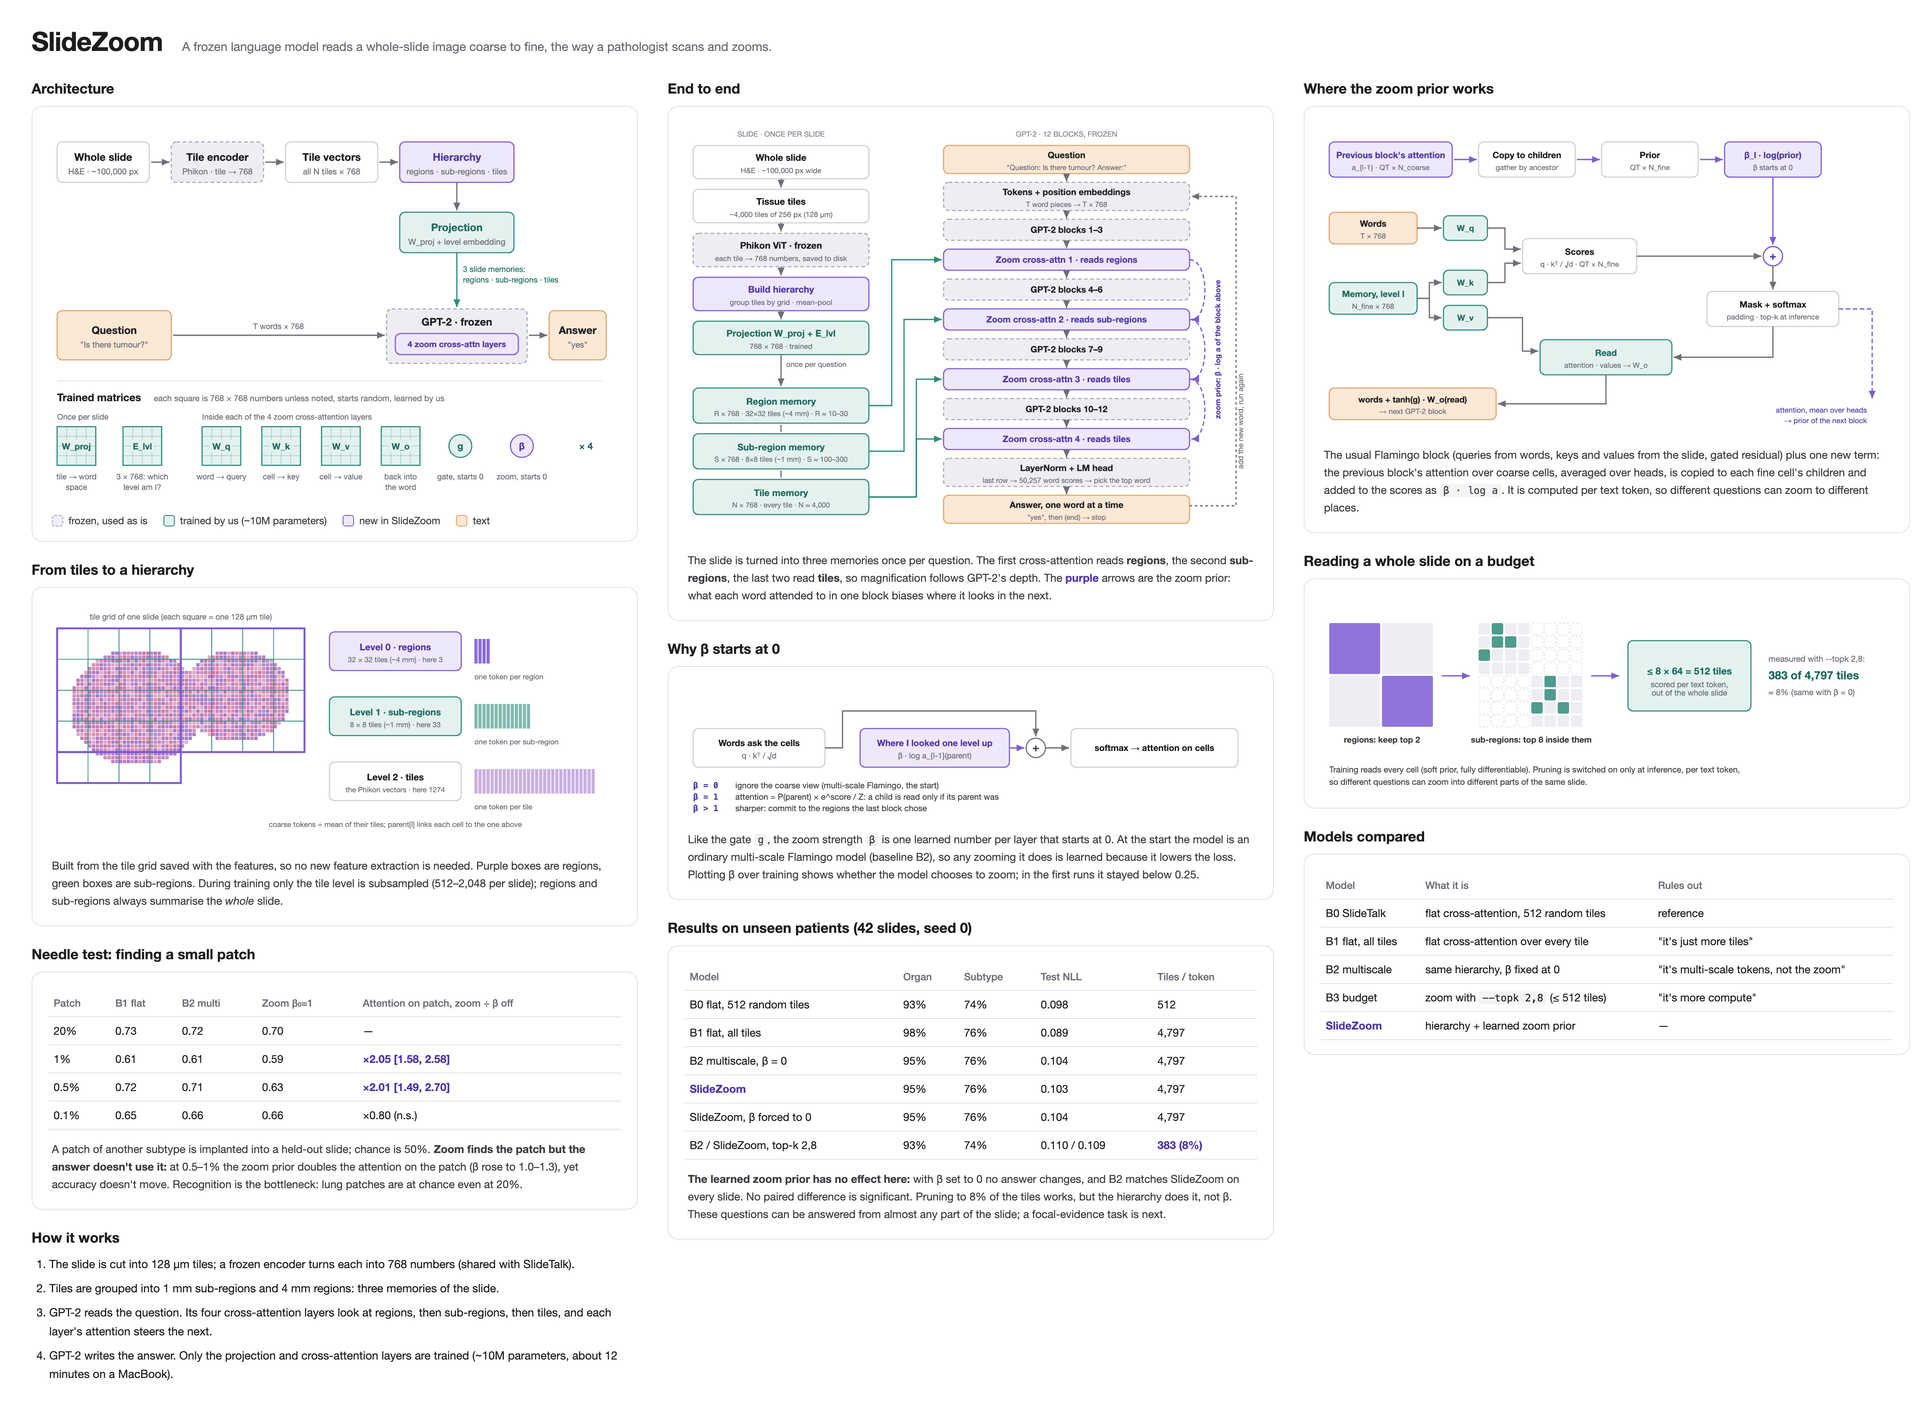
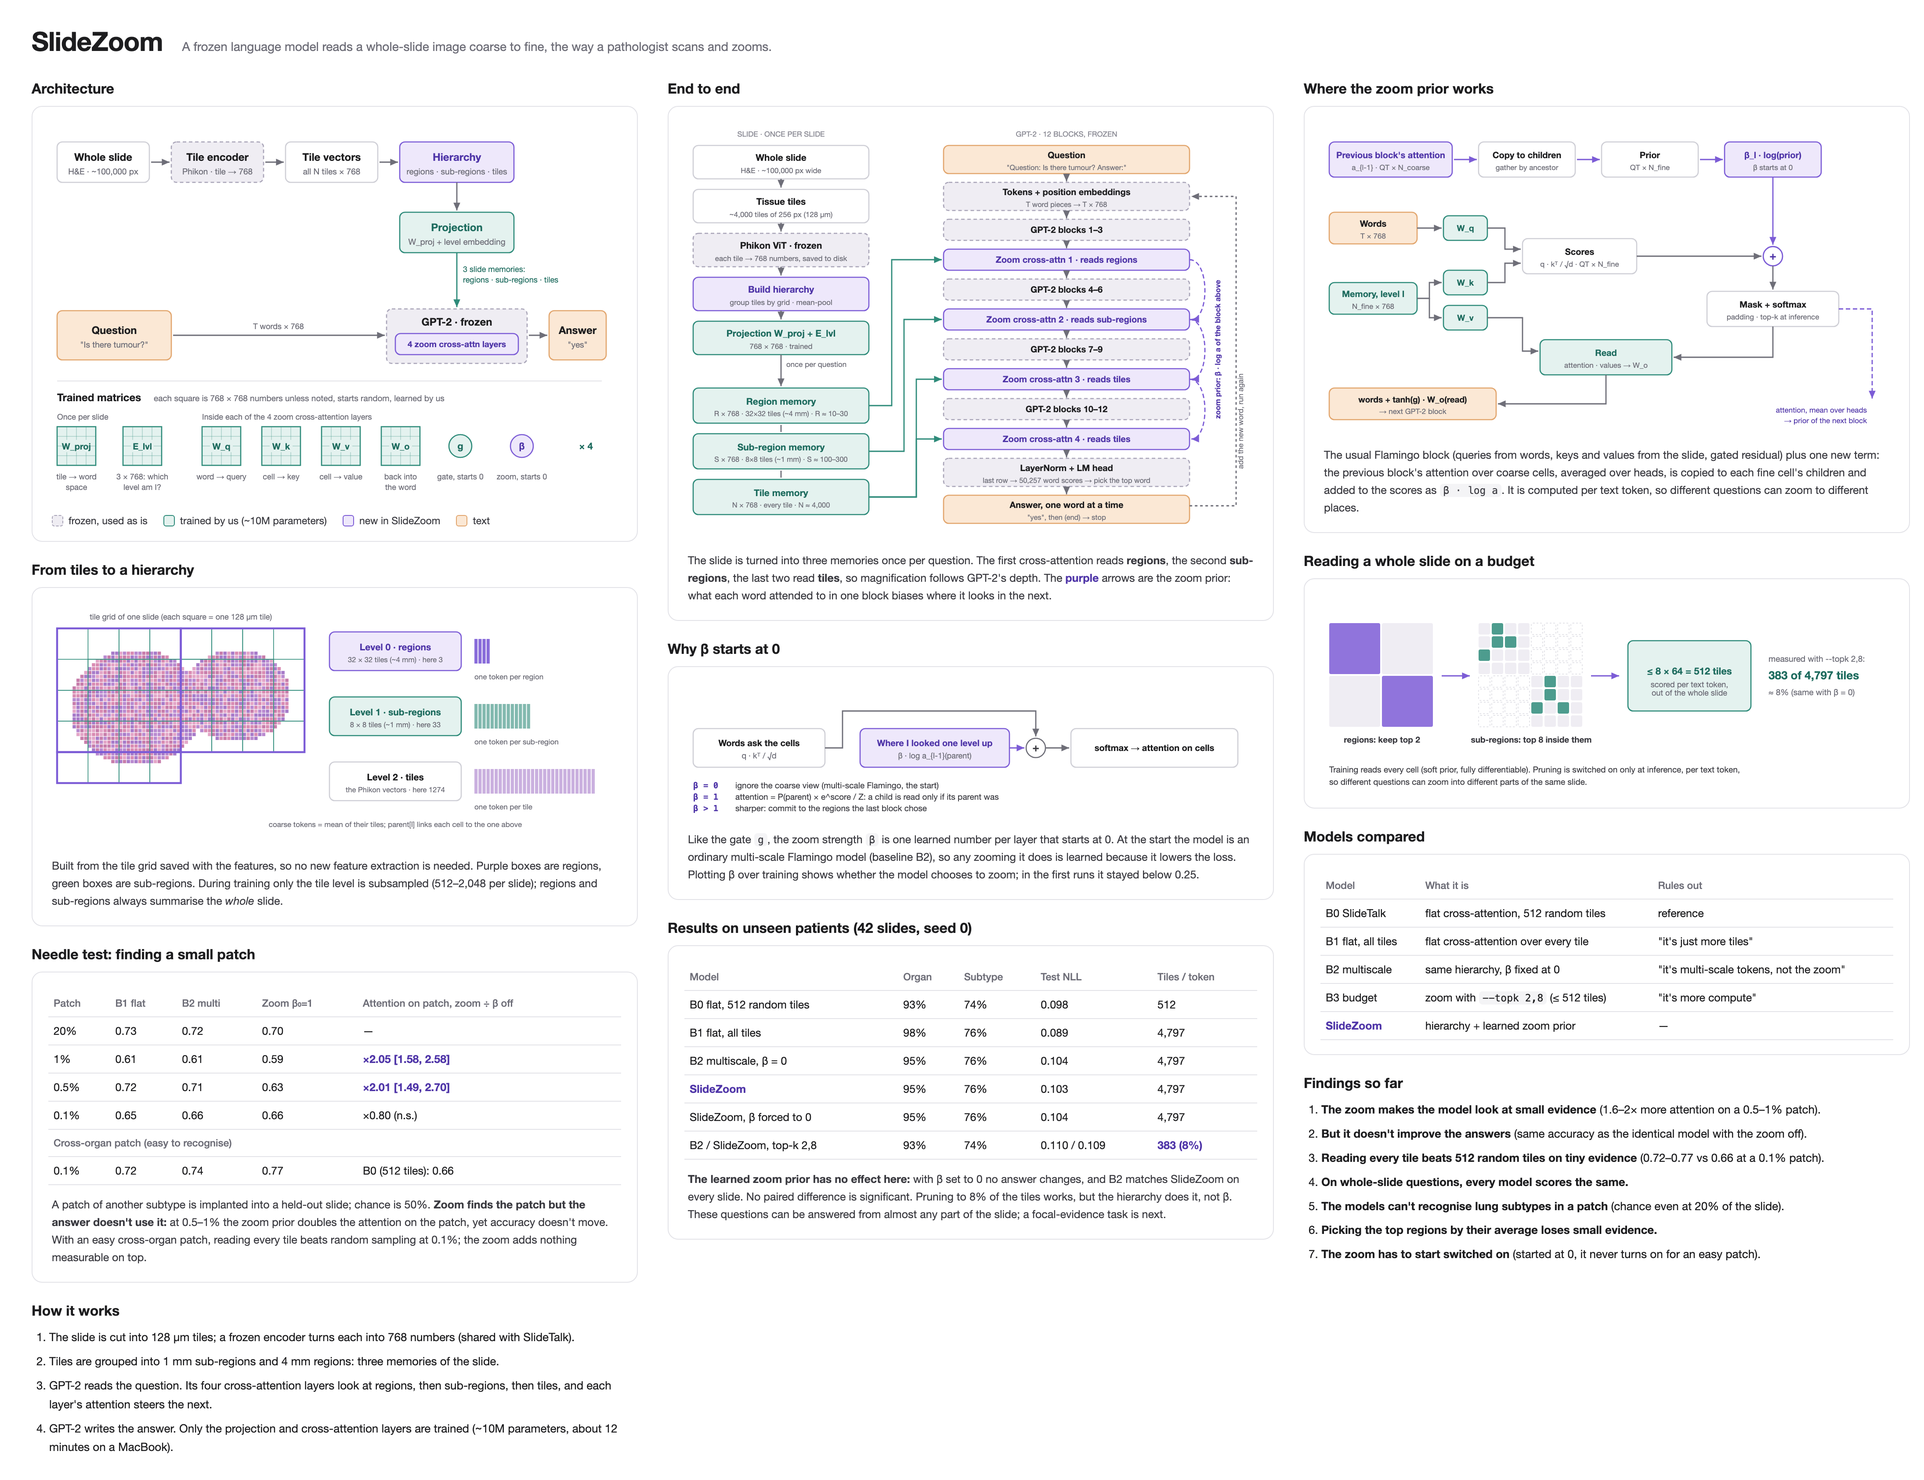
Add cross-organ needle test and one-line findings
Cross-organ patches (e.g. lung tissue in a kidney slide) make recognition
easy, so finding the patch becomes the hard part. Accuracy now falls with
patch size (0.89 at 20% to 0.66-0.77 at 0.1%). At 0.1%, reading every
tile beats 512 random tiles (0.72-0.77 vs 0.66), but the zoom adds no
measurable accuracy over the same hierarchy with the zoom off (+0.02,
p = 0.50) while still putting 1.6x more attention on 0.5-1% patches.
Top-k by region averages loses the patch; started at 0, beta stays off.

Adds --needle-mode cross (train.py, needle.py, MODE=cross in
run_needle.sh) and a one-line findings list to the README and diagram.

diff --git a/docs/slidezoom.html b/docs/slidezoom.html
@@ -34,10 +34,13 @@ regions and sub-regions always summarise the <i>whole</i> slide.</p></div></sect
 <tr><td>1%</td><td>0.61</td><td>0.61</td><td>0.59</td><td class="new">×2.05 [1.58, 2.58]</td></tr>
 <tr><td>0.5%</td><td>0.72</td><td>0.71</td><td>0.63</td><td class="new">×2.01 [1.49, 2.70]</td></tr>
 <tr><td>0.1%</td><td>0.65</td><td>0.66</td><td>0.66</td><td>×0.80 (n.s.)</td></tr>
+<tr><th colspan="5">Cross-organ patch (easy to recognise)</th></tr>
+<tr><td>0.1%</td><td>0.72</td><td>0.74</td><td>0.77</td><td>B0 (512 tiles): 0.66</td></tr>
 </table>
 <p>A patch of another subtype is implanted into a held-out slide; chance is 50%. <b>Zoom finds the patch but the
-answer doesn't use it:</b> at 0.5–1% the zoom prior doubles the attention on the patch (β rose to 1.0–1.3), yet
-accuracy doesn't move. Recognition is the bottleneck: lung patches are at chance even at 20%.</p></div></section><section><h2>How it works</h2><ol>
+answer doesn't use it:</b> at 0.5–1% the zoom prior doubles the attention on the patch, yet accuracy doesn't
+move. With an easy cross-organ patch, reading every tile beats random sampling at 0.1%; the zoom adds nothing
+measurable on top.</p></div></section><section><h2>How it works</h2><ol>
 <li>The slide is cut into 128 µm tiles; a frozen encoder turns each into 768 numbers (shared with SlideTalk).</li>
 <li>Tiles are grouped into 1 mm sub-regions and 4 mm regions: three memories of the slide.</li>
 <li>GPT-2 reads the question. Its four cross-attention layers look at regions, then sub-regions, then tiles, and
@@ -71,5 +74,13 @@ places.</p></div></section><section><h2>Reading a whole slide on a budget</h2><d
 <tr><td>B2 multiscale</td><td>same hierarchy, β fixed at 0</td><td>"it's multi-scale tokens, not the zoom"</td></tr>
 <tr><td>B3 budget</td><td>zoom with <code>--topk 2,8</code> (≤ 512 tiles)</td><td>"it's more compute"</td></tr>
 <tr><td class="new">SlideZoom</td><td>hierarchy + learned zoom prior</td><td>—</td></tr>
-</table></div></section></div></div>
+</table></div></section><section><h2>Findings so far</h2><ol>
+<li><b>The zoom makes the model look at small evidence</b> (1.6–2× more attention on a 0.5–1% patch).</li>
+<li><b>But it doesn't improve the answers</b> (same accuracy as the identical model with the zoom off).</li>
+<li><b>Reading every tile beats 512 random tiles on tiny evidence</b> (0.72–0.77 vs 0.66 at a 0.1% patch).</li>
+<li><b>On whole-slide questions, every model scores the same.</b></li>
+<li><b>The models can't recognise lung subtypes in a patch</b> (chance even at 20% of the slide).</li>
+<li><b>Picking the top regions by their average loses small evidence.</b></li>
+<li><b>The zoom has to start switched on</b> (started at 0, it never turns on for an easy patch).</li>
+</ol></section></div></div>
 </main></body></html>

diff --git a/slidezoom/data.py b/slidezoom/data.py
@@ -158,11 +158,15 @@ def make_composite(store: SlideStore, host: str, donor: str, frac: float, rng: n
     return h
 
 
-def needle_case(df: pd.DataFrame, row, positive: bool, rng: np.random.Generator):
-    """(donor file_id, subtype asked about, answer). Positive: donor of another subtype of the same organ, asked
-    about it -> yes. Negative control: donor of the host's own subtype (a foreign patch all the same), asked about
-    another subtype of the organ -> no."""
-    others = [s for s in same_organ(row.subtype) if s != row.subtype]
+def needle_case(df: pd.DataFrame, row, positive: bool, rng: np.random.Generator, mode: str = "same"):
+    """(donor file_id, subtype asked about, answer). Positive: donor of another subtype, asked about it -> yes.
+    Negative control: donor of the host's own subtype (a foreign patch all the same), asked about another
+    subtype -> no. mode "same": the other subtype is from the same organ (hard to recognise); "cross": from the
+    other organ (easy to recognise, so finding the patch is the hard part)."""
+    if mode == "cross":
+        others = [s for s in SUBTYPE_NAMES if s not in same_organ(row.subtype)]
+    else:
+        others = [s for s in same_organ(row.subtype) if s != row.subtype]
     if positive:
         target = others[rng.integers(len(others))]
         pool = df[df.subtype == target]
@@ -174,7 +178,8 @@ def needle_case(df: pd.DataFrame, row, positive: bool, rng: np.random.Generator)
 
 
 def make_batch(rows: pd.DataFrame, store: SlideStore, n_tiles, n_questions: int, rng: random.Random,
-               np_rng: np.random.Generator, device, needle: float = 0.0, donors: pd.DataFrame | None = None):
+               np_rng: np.random.Generator, device, needle: float = 0.0, donors: pd.DataFrame | None = None,
+               needle_mode: str = "same"):
     """Slide-major batch: slide i owns questions i*Q .. i*Q+Q-1 (the model relies on this order).
 
     n_tiles: int, (low, high) for a random count per slide, or None for every tile. Coarse levels always
@@ -187,7 +192,7 @@ def make_batch(rows: pd.DataFrame, store: SlideStore, n_tiles, n_questions: int,
     for _, row in rows.iterrows():
         if needle and np_rng.random() < needle:
             frac = float(10 ** np_rng.uniform(np.log10(NEEDLE_FRACS[-1]), np.log10(NEEDLE_FRACS[0])))
-            donor, target, ans = needle_case(donors, row, bool(np_rng.random() < 0.5), np_rng)
+            donor, target, ans = needle_case(donors, row, bool(np_rng.random() < 0.5), np_rng, needle_mode)
             h = make_composite(store, row.file_id, donor, frac, np_rng)
             qa = [(q.format(s=target), ans) for q in NEEDLE_Q] + [(ASK_ORGAN[0], row.organ)]
         else:

diff --git a/docs/make_diagram.py b/docs/make_diagram.py
@@ -393,10 +393,13 @@ not β. These questions can be answered from almost any part of the slide; a foc
 <tr><td>1%</td><td>0.61</td><td>0.61</td><td>0.59</td><td class="new">×2.05 [1.58, 2.58]</td></tr>
 <tr><td>0.5%</td><td>0.72</td><td>0.71</td><td>0.63</td><td class="new">×2.01 [1.49, 2.70]</td></tr>
 <tr><td>0.1%</td><td>0.65</td><td>0.66</td><td>0.66</td><td>×0.80 (n.s.)</td></tr>
+<tr><th colspan="5">Cross-organ patch (easy to recognise)</th></tr>
+<tr><td>0.1%</td><td>0.72</td><td>0.74</td><td>0.77</td><td>B0 (512 tiles): 0.66</td></tr>
 </table>
 <p>A patch of another subtype is implanted into a held-out slide; chance is 50%. <b>Zoom finds the patch but the
-answer doesn't use it:</b> at 0.5–1% the zoom prior doubles the attention on the patch (β rose to 1.0–1.3), yet
-accuracy doesn't move. Recognition is the bottleneck: lung patches are at chance even at 20%.</p>"""))
+answer doesn't use it:</b> at 0.5–1% the zoom prior doubles the attention on the patch, yet accuracy doesn't
+move. With an easy cross-organ patch, reading every tile beats random sampling at 0.1%; the zoom adds nothing
+measurable on top.</p>"""))
     col3 = [
         section("Where the zoom prior works", prior_panel() + """
 <p>The usual Flamingo block (queries from words, keys and values from the slide, gated residual) plus one new term:
@@ -420,6 +423,15 @@ places.</p>"""),
 each layer's attention steers the next.</li>
 <li>GPT-2 writes the answer. Only the projection and cross-attention layers are trained (~10M parameters,
 about 12 minutes on a MacBook).</li></ol>""", card=False))
+    col3.append(section("Findings so far", """<ol>
+<li><b>The zoom makes the model look at small evidence</b> (1.6–2× more attention on a 0.5–1% patch).</li>
+<li><b>But it doesn't improve the answers</b> (same accuracy as the identical model with the zoom off).</li>
+<li><b>Reading every tile beats 512 random tiles on tiny evidence</b> (0.72–0.77 vs 0.66 at a 0.1% patch).</li>
+<li><b>On whole-slide questions, every model scores the same.</b></li>
+<li><b>The models can't recognise lung subtypes in a patch</b> (chance even at 20% of the slide).</li>
+<li><b>Picking the top regions by their average loses small evidence.</b></li>
+<li><b>The zoom has to start switched on</b> (started at 0, it never turns on for an easy patch).</li>
+</ol>""", card=False))
     cols = "".join(f'<div class="col">{"".join(c)}</div>' for c in (col1, col2, col3))
     return f"""<!doctype html><html><head><meta charset="utf-8"><title>SlideZoom</title><style>{CSS}</style></head>
 <body><main>

diff --git a/scripts/train.py b/scripts/train.py
@@ -49,6 +49,8 @@ def main():
     ap.add_argument("--lr", type=float, default=3e-4)
     ap.add_argument("--gate-lr", type=float, default=1e-2, help="for the scalar gates and betas")
     ap.add_argument("--needle", type=float, default=0.0, help="share of slides turned into needle composites")
+    ap.add_argument("--needle-mode", choices=["same", "cross"], default="same",
+                    help="needle patch from another subtype of the same organ, or of the other organ")
     ap.add_argument("--beta-init", type=float, default=0.0, help="starting zoom strength (zoom mode)")
     ap.add_argument("--fold", type=int, default=None, help="5-fold CV; default: data/splits.csv")
     ap.add_argument("--seed", type=int, default=0)
@@ -87,7 +89,7 @@ def main():
         order = train_df.sample(frac=1, random_state=args.seed * 1000 + epoch)
         for s in range(0, len(order), args.slides_per_step):
             slide, qs, ans = make_batch(order.iloc[s:s + args.slides_per_step], store, train_tiles,
-                                        args.questions_per_slide, rng, np_rng, device, args.needle, train_df)
+                                        args.questions_per_slide, rng, np_rng, device, args.needle, train_df, args.needle_mode)
             loss = model.loss(slide, qs, ans)
             opt.zero_grad(set_to_none=True)
             loss.backward()
@@ -111,7 +113,8 @@ def main():
                    val_subtype=float(acc["subtype"]), val_organ=float(acc["organ"]),
                    gates=model.gates(), betas=model.betas(), skipped_steps=skipped, seconds=round(time.time() - t0))
         if args.needle:
-            nd = needle_eval(model, val_df, store, fracs=(0.01,), n_tiles=eval_tiles, pointing=False)
+            nd = needle_eval(model, val_df, store, fracs=(0.01,), n_tiles=eval_tiles, pointing=False,
+                             mode=args.needle_mode)
             row["val_needle_1pct"] = float(nd.correct.mean())
         log.append(row)
         print(f"epoch {epoch:2d}  loss {row['loss']:.3f}  val nll {row['val_nll']:.3f}  subtype {row['val_subtype']:.2f}  "

diff --git a/scripts/needle.py b/scripts/needle.py
@@ -27,6 +27,7 @@ def main():
     ap.add_argument("--eval-tiles", default="all")
     ap.add_argument("--topk", default=None)
     ap.add_argument("--zero-beta", action="store_true")
+    ap.add_argument("--mode", choices=["same", "cross"], default=None, help="default: the mode it was trained with")
     args = ap.parse_args()
     ck = torch.load(args.ckpt, map_location="cpu")
     device = torch.device("cuda" if torch.cuda.is_available() else "mps" if torch.backends.mps.is_available() else "cpu")
@@ -40,8 +41,9 @@ def main():
     model.set_topk(None if args.topk is None else tuple(int(k) for k in args.topk.split(",")))
     n_tiles = None if args.eval_tiles == "all" else int(args.eval_tiles)
     df = slides(args.split, ck["args"].get("fold"))
-    res = needle_eval(model, df, SlideStore(), n_tiles=n_tiles)
-    print(f"{ck['args']['mode']}  {len(df)} {args.split} hosts  tiles {args.eval_tiles}  topk {args.topk}  "
+    mode = args.mode or ck["args"].get("needle_mode", "same")
+    res = needle_eval(model, df, SlideStore(), n_tiles=n_tiles, mode=mode)
+    print(f"{ck['args']['mode']}  needle {mode}  {len(df)} {args.split} hosts  tiles {args.eval_tiles}  topk {args.topk}  "
           f"betas {['%+.2f' % b for b in model.betas()]}")
     g = res.groupby("frac", sort=False)
     out = g.agg(acc=("correct", "mean"), acc_pos=("correct", lambda c: c[res.loc[c.index, "positive"]].mean()),
@@ -49,7 +51,7 @@ def main():
                 implant_read=("implant_read", "mean"), tiles_read=("tiles_read", "mean"),
                 lift=("lift", "median"))
     print(out.to_string(float_format=lambda v: f"{v:.2f}"))
-    tag = f"{args.split}_{Path(args.ckpt).stem}_t{args.eval_tiles}_k{args.topk or 'all'}{'_beta0' if args.zero_beta else ''}".replace(",", "-")
+    tag = f"{args.split}_{Path(args.ckpt).stem}_t{args.eval_tiles}_k{args.topk or 'all'}{'_beta0' if args.zero_beta else ''}{'_cross' if mode == 'cross' else ''}".replace(",", "-")
     res.to_csv(Path(args.ckpt).resolve().parent / f"{tag}_needle.csv", index=False)
 
 

diff --git a/slidezoom/evaluate.py b/slidezoom/evaluate.py
@@ -63,7 +63,7 @@ def slide_nll(model, df: pd.DataFrame, store: SlideStore, n_tiles: int | None = 
 
 @torch.no_grad()
 def needle_eval(model, df: pd.DataFrame, store: SlideStore, fracs=NEEDLE_FRACS, n_tiles: int | None = None,
-                pointing: bool = True) -> pd.DataFrame:
+                pointing: bool = True, mode: str = "same") -> pd.DataFrame:
     """Each slide of df hosts, at every frac, one positive and one negative-control composite (donors from df).
 
     The same composites for every model (seeded by slide and frac). With n_tiles, a fixed random sample is read,
@@ -76,7 +76,7 @@ def needle_eval(model, df: pd.DataFrame, store: SlideStore, fracs=NEEDLE_FRACS, 
         for fi, frac in enumerate(fracs):
             for positive in (True, False):
                 rng = np.random.default_rng(zlib.crc32(r.file_id.encode()) * 10 + fi * 2 + int(positive))
-                donor, target, truth = needle_case(df, r, positive, rng)
+                donor, target, truth = needle_case(df, r, positive, rng, mode)
                 h = make_composite(store, r.file_id, donor, frac, rng)
                 if n_tiles and n_tiles < h.n_tiles:
                     h = h.subset(np.sort(rng.permutation(h.n_tiles)[:n_tiles]))

diff --git a/README.md b/README.md
@@ -8,6 +8,16 @@ features). It uses the same slides, labels and questions, and leaves SlideTalk u
 
 ![SlideZoom architecture](docs/slidezoom.png)
 
+## Findings so far (one seed, 41 held-out patients)
+
+1. **The zoom makes the model look at small evidence** (1.6–2× more attention on a 0.5–1% patch).
+2. **But it doesn't improve the answers** (same accuracy as the identical model with the zoom off).
+3. **Reading every tile beats reading 512 random tiles on tiny evidence** (0.72–0.77 vs 0.66 at a 0.1% patch).
+4. **On whole-slide questions, every model scores the same** (any part of the slide shows the cancer type).
+5. **The models can't recognise lung subtypes in a patch** (chance even at 20% of the slide).
+6. **Picking the top regions by their average loses small evidence** (top-k misses patches of 1% and below).
+7. **The zoom has to start switched on** (started at 0, the model never turns it on for an easy patch).
+
 ## Problem
 
 SlideTalk reads a **random 512 of ~4,000–20,000 tiles** per slide. A small tumour focus can be missing from
@@ -139,6 +149,39 @@ for zoom with β from 1, paired on identical composites (×, with 95% bootstrap 
 Caveats: one seed, 25 epochs (validation curves were still rising), a synthetic task, and attention measured at
 one token. Next: a cross-organ needle (an easy-to-recognise patch, so finding it is the hard part), longer
 training and more seeds.
+
+## Needle test, cross-organ: an easy-to-recognise patch
+
+Same test, but the patch comes from **the other organ** (e.g. lung tissue in a kidney slide), so recognising it is
+easy and finding it is the hard part. Run with `MODE=cross bash scripts/run_needle.sh`.
+
+**Accuracy (41 test patients, 82 cases per size, chance 50%)**
+
+| Patch | B0 512 tiles | B1 every tile | B2 multiscale (zoom off) | Zoom, β from 0 | **Zoom, β from 1** | Zoom β from 1, β off |
+|---|---|---|---|---|---|---|
+| 20% | 0.87 | 0.85 | 0.85 | 0.85 | 0.89 | 0.89 |
+| 5% | 0.88 | 0.89 | 0.89 | 0.88 | 0.89 | 0.91 |
+| 1% | 0.88 | 0.88 | 0.89 | 0.85 | 0.88 | 0.87 |
+| 0.5% | 0.82 | 0.84 | 0.83 | 0.80 | 0.84 | 0.82 |
+| 0.1% | 0.66 | 0.72 | 0.74 | 0.76 | **0.77** | 0.74 |
+
+**Zoom (β from 1) vs B2, paired on identical cases**
+
+| Patch | Accuracy difference | Attention on the patch |
+|---|---|---|
+| 1% | −0.01 [−0.07, +0.04] | **×1.59** [1.24, 2.04] |
+| 0.5% | +0.01 [−0.04, +0.07] | **×1.63** [1.26, 2.12] |
+| 0.1% | +0.02 [0.00, +0.06], p = 0.50 | ×0.74 [0.50, 1.07] |
+
+**In one line each**
+
+- **The task now works:** accuracy falls as the patch shrinks (0.89 at 20% → 0.66–0.77 at 0.1%).
+- **Random sampling misses tiny evidence:** at 0.1%, 512 random tiles score 0.66; zoom scores 0.77 (+11, p = 0.05).
+- **Most of that gain comes from reading every tile:** flat attention over every tile already reaches 0.72.
+- **The zoom adds no measurable accuracy:** against the same structure with the zoom off (B2), +2 points, not significant.
+- **The zoom still steers attention:** 1.6× more on 0.5–1% patches, but not on single tiles (0.1%).
+- **Top-k fails here:** choosing 2 of the regions by their average never keeps the patch, for zoom and B2 alike.
+- **The zoom must start on:** started at 0, β stayed near 0 (−0.02, 0.17, −0.06), so that model behaves like B2.
 
 ## Run
 
